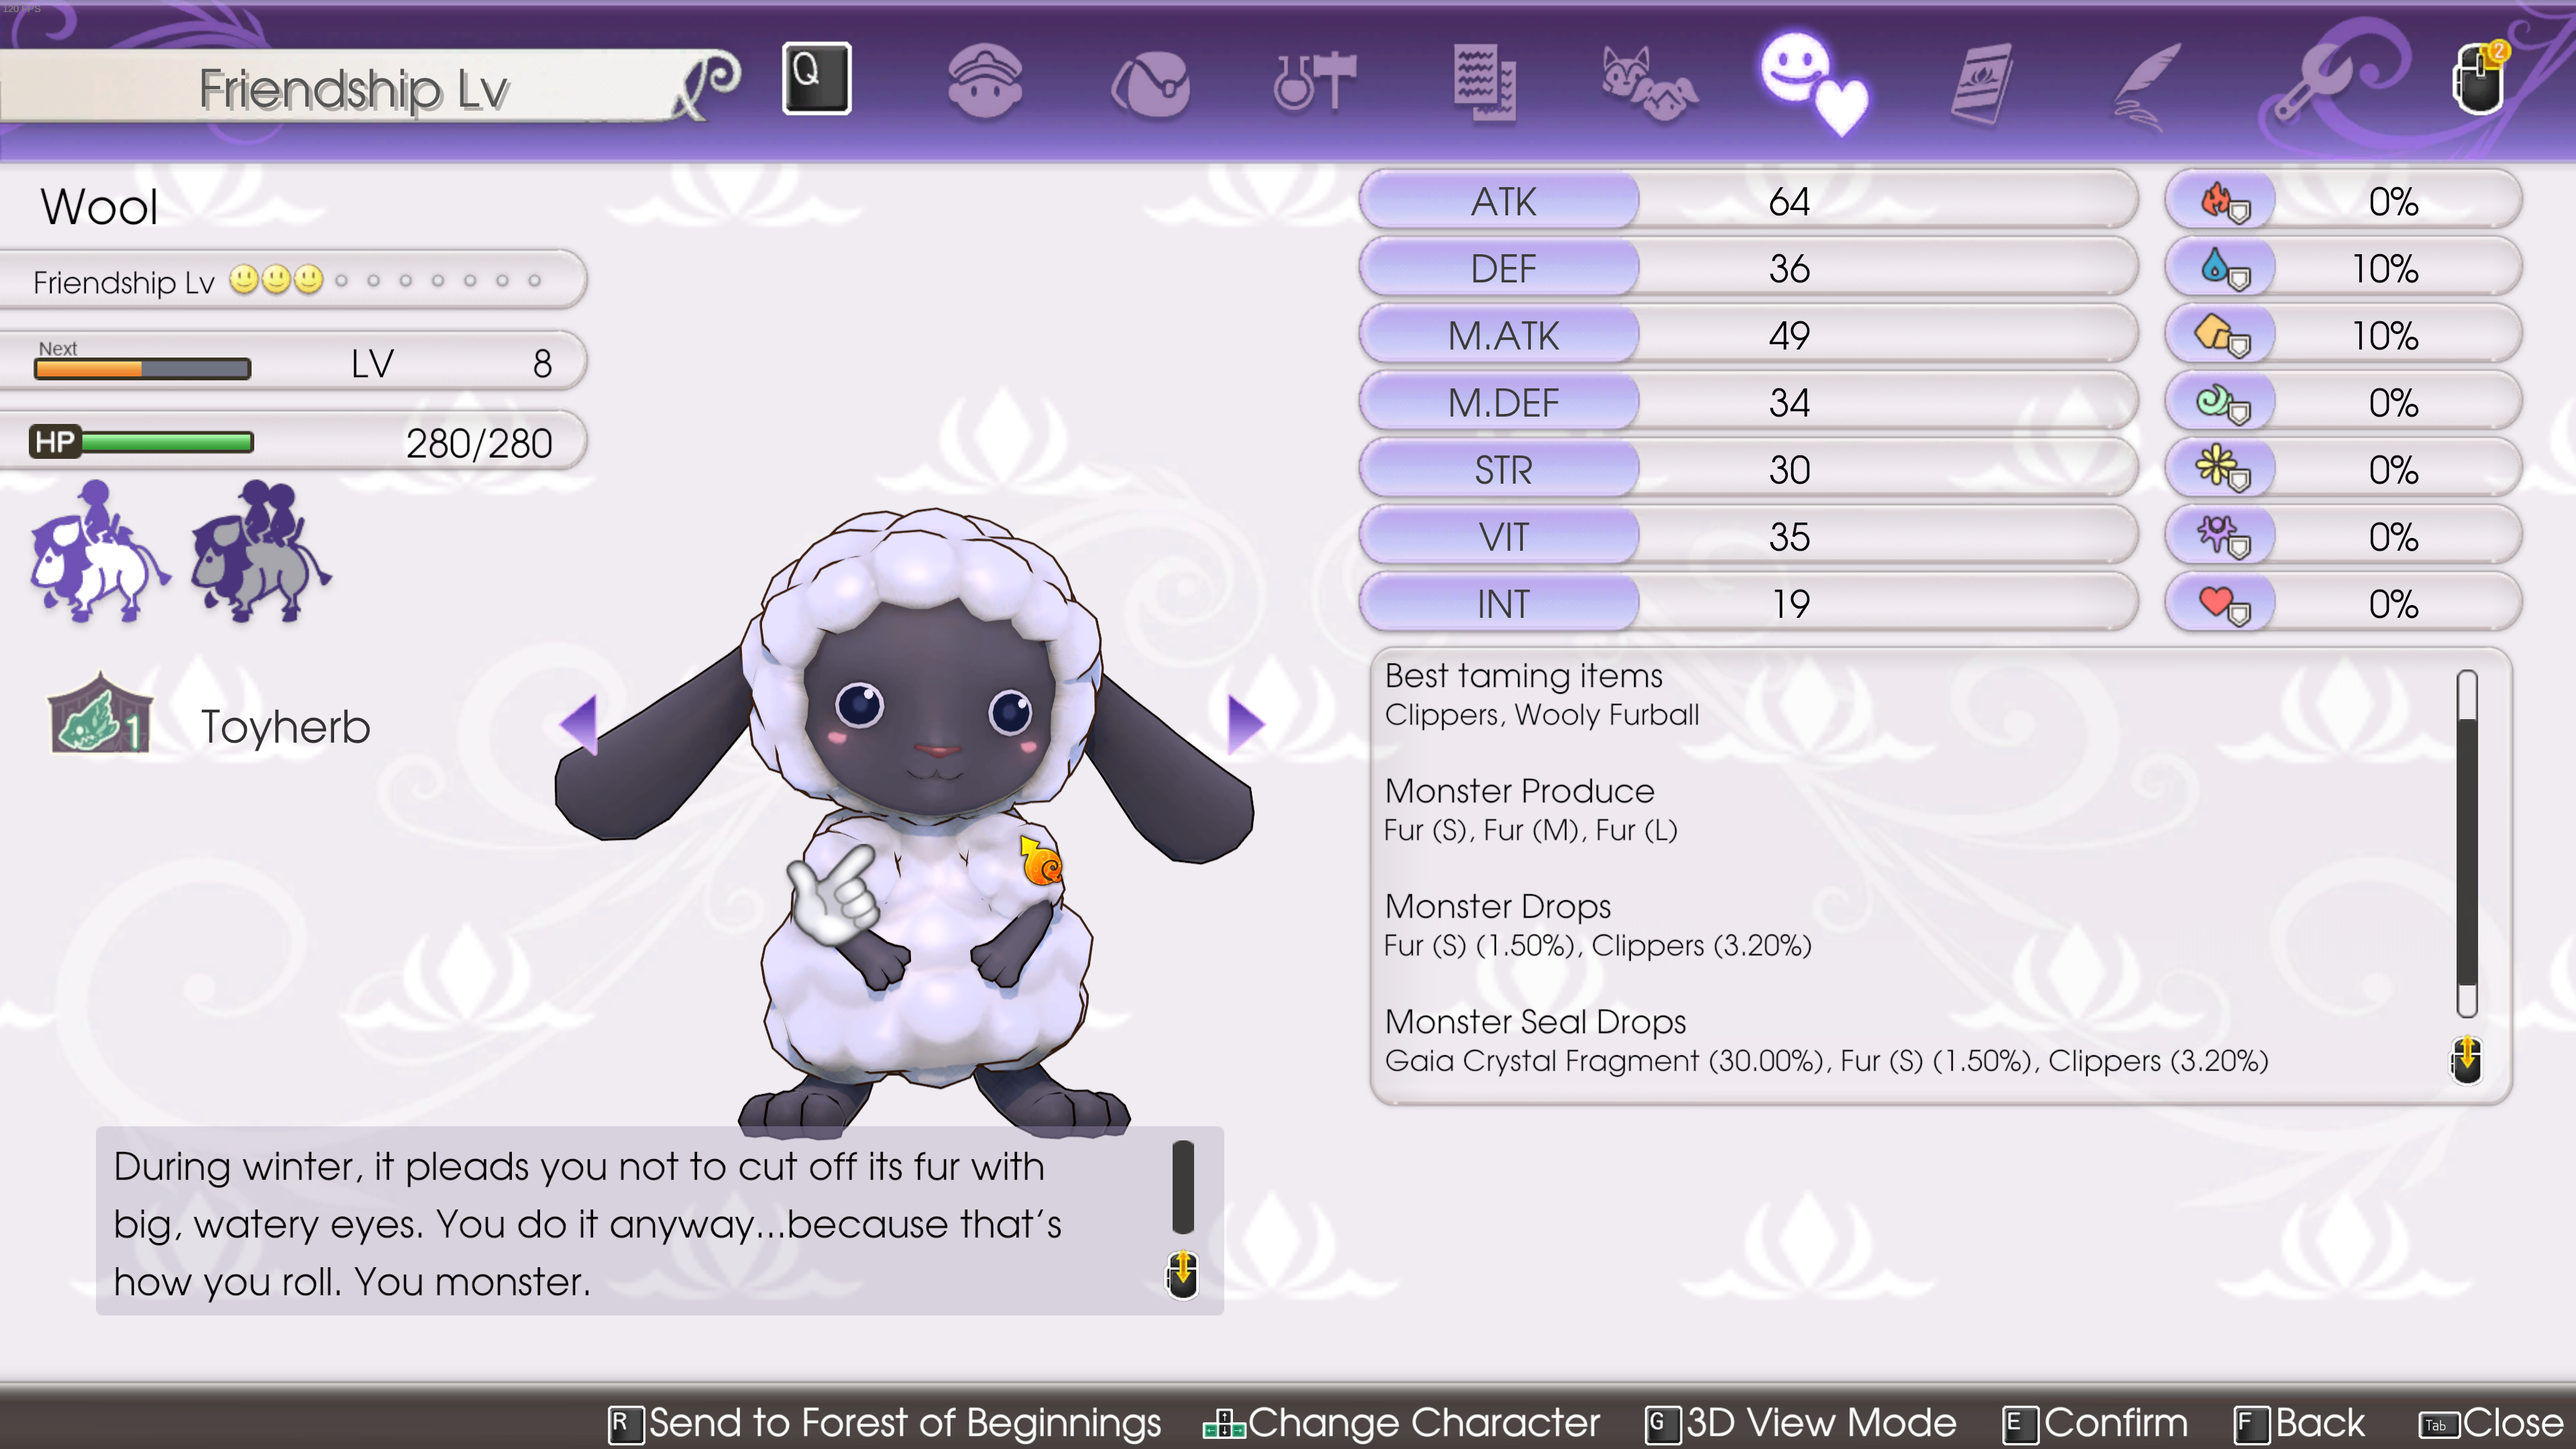
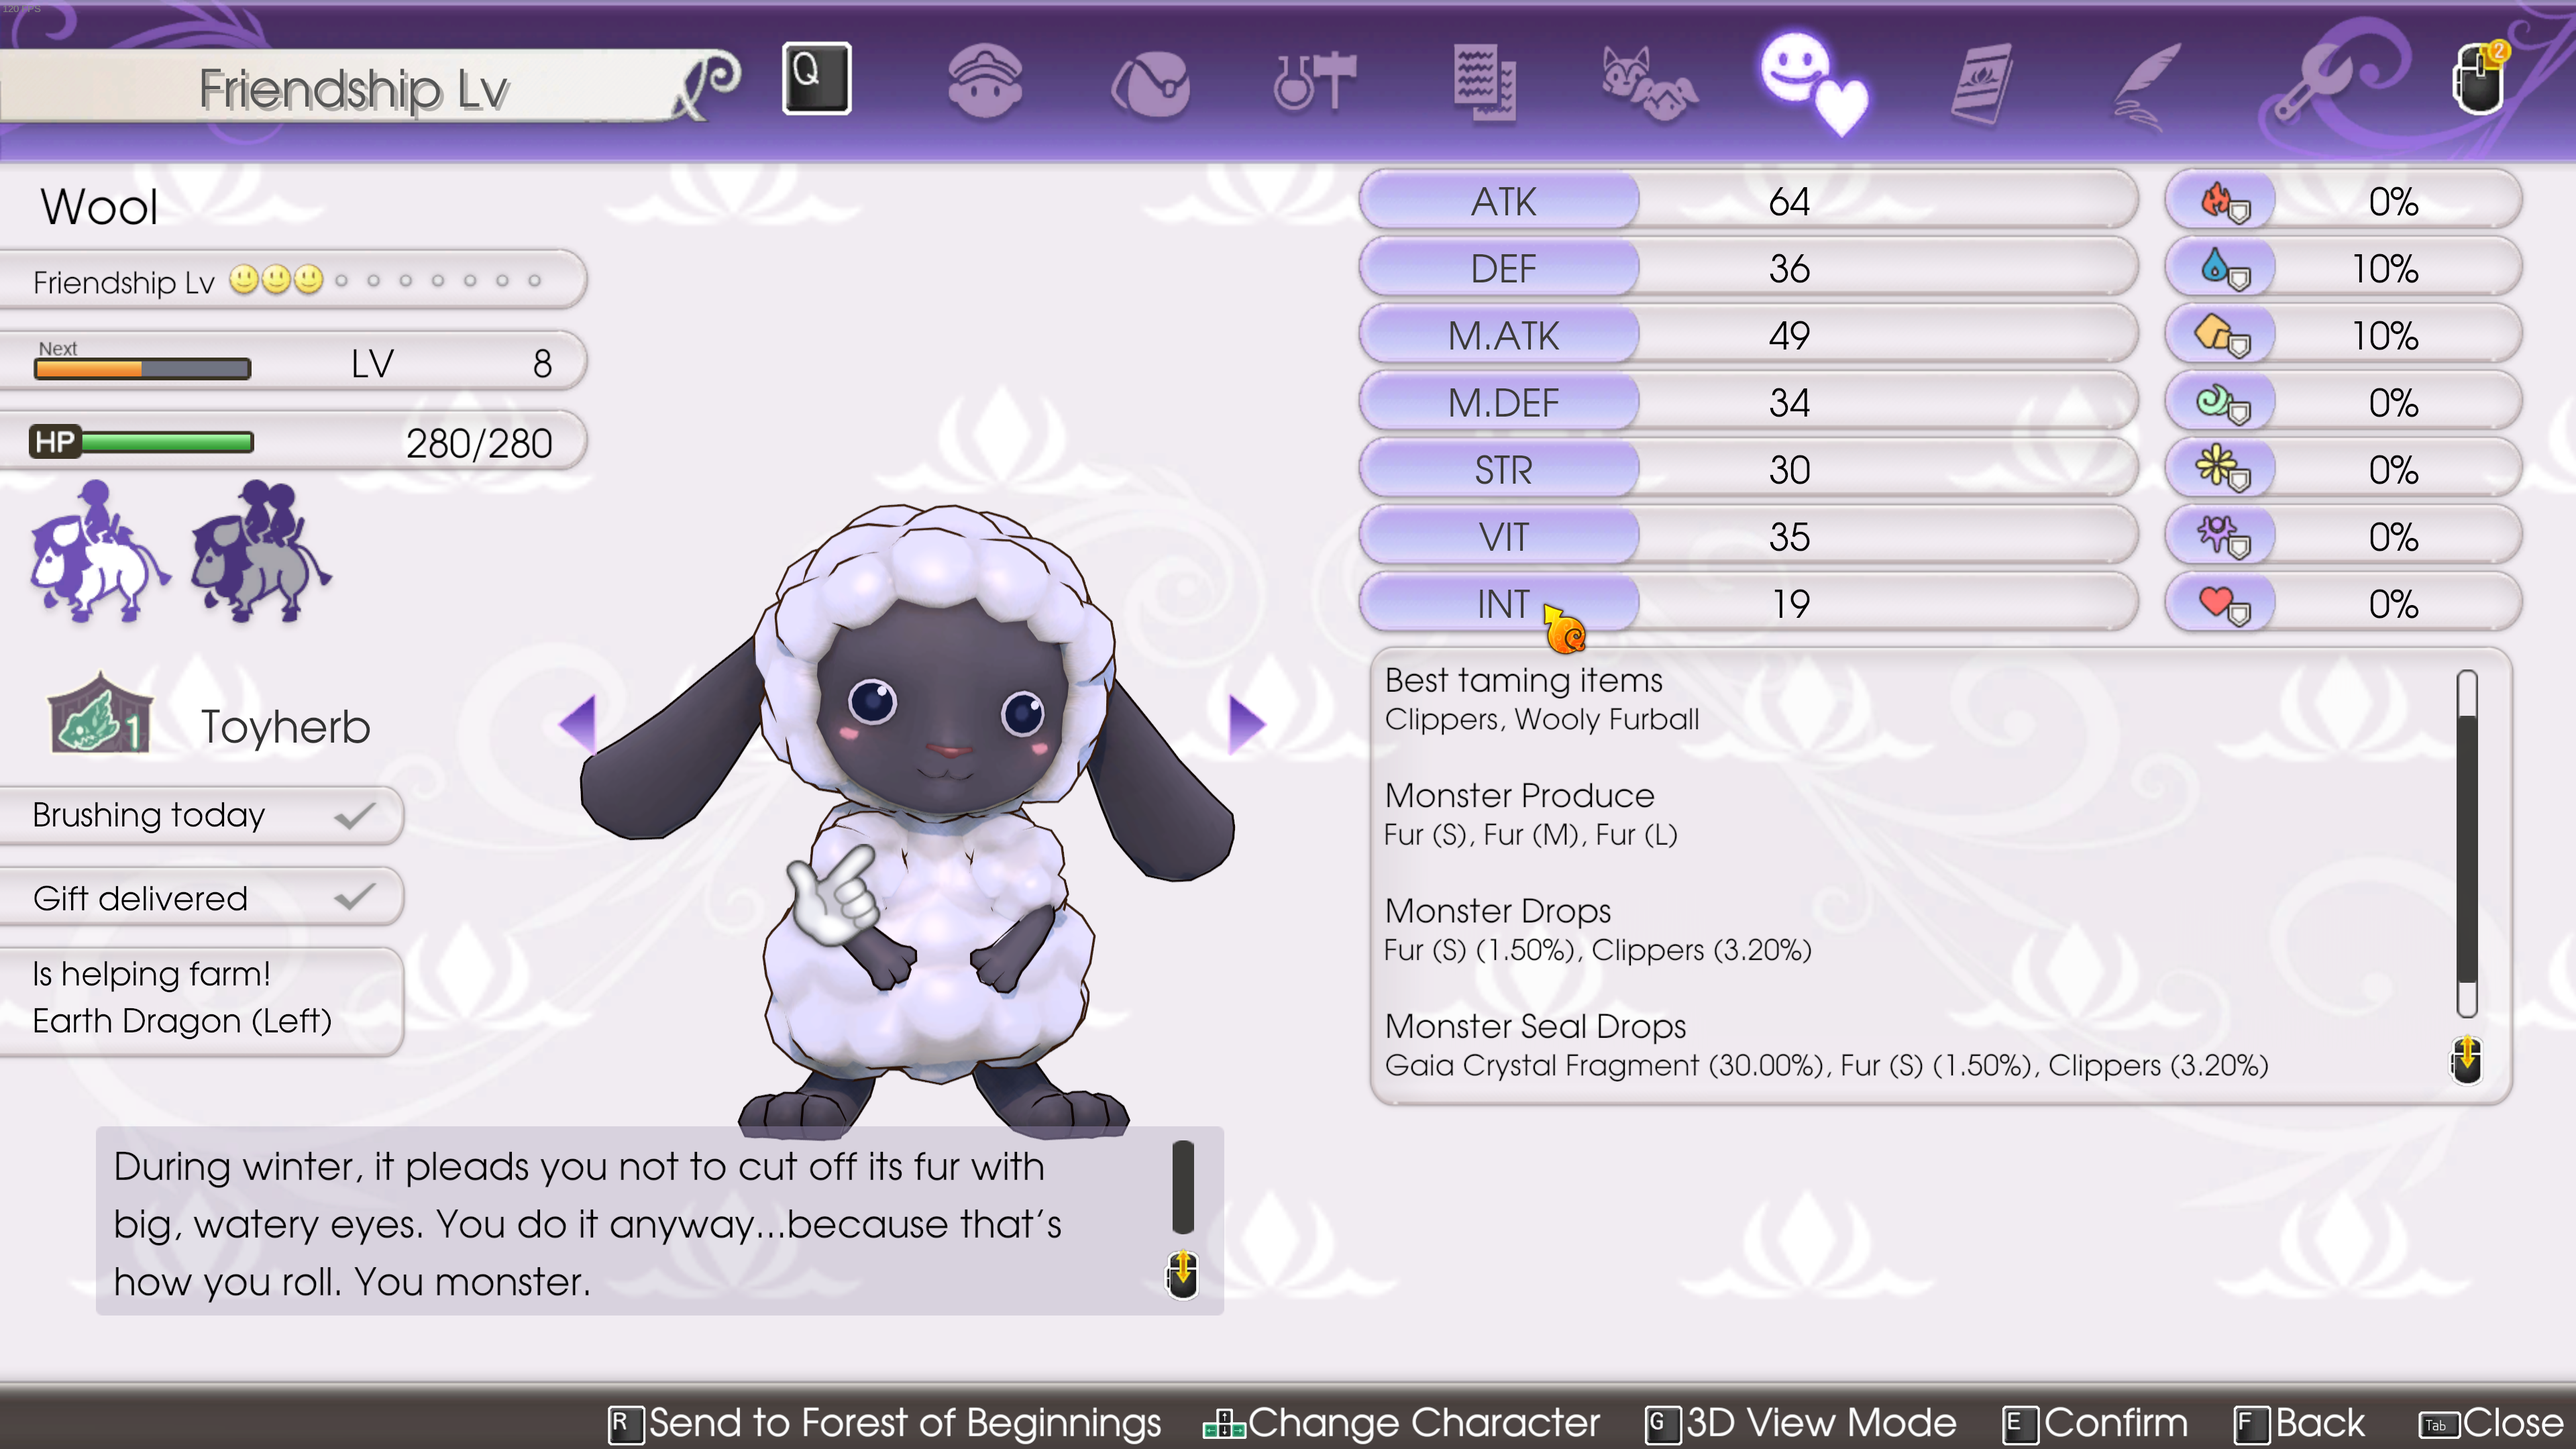
Fix left tips

diff --git a/NPCDetailWindow/Attachment_LeftStatusPos.cs b/NPCDetailWindow/Attachment_LeftStatusPos.cs
@@ -405,8 +405,10 @@ internal class Attachment_LeftStatusPos : MonoBehaviour
 
         m_Status_Monster_GO.SetActive(true);
 
-        m_Monster_Tips_BrushingToday_Checked.SetActive(friendMonsterData.IsBrushed && ShowMonsterBrushedTip.Value);
-        m_Monster_Tips_WasPresent_Checked.SetActive(friendMonsterData.IsPresent && ShowMonsterGiftDeliveredTip.Value);
+        m_Monster_Tips_BrushingToday_GO.SetActive(ShowMonsterBrushedTip.Value);
+        m_Monster_Tips_BrushingToday_Checked.SetActive(friendMonsterData.IsBrushed);
+        m_Monster_Tips_WasPresent_GO.SetActive(ShowMonsterGiftDeliveredTip.Value);
+        m_Monster_Tips_WasPresent_Checked.SetActive(friendMonsterData.IsPresent);
 
         if (ShowMonsterHelpingTip.Value && friendMonsterData.FarmFieldWorkArea != Define.FarmFieldWorkArea.None)
         {
